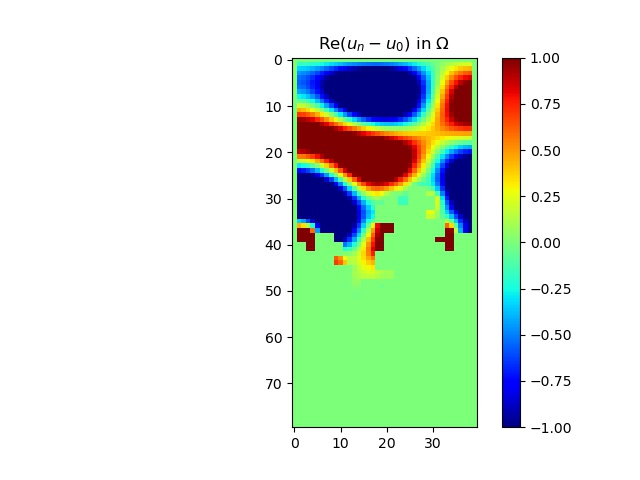
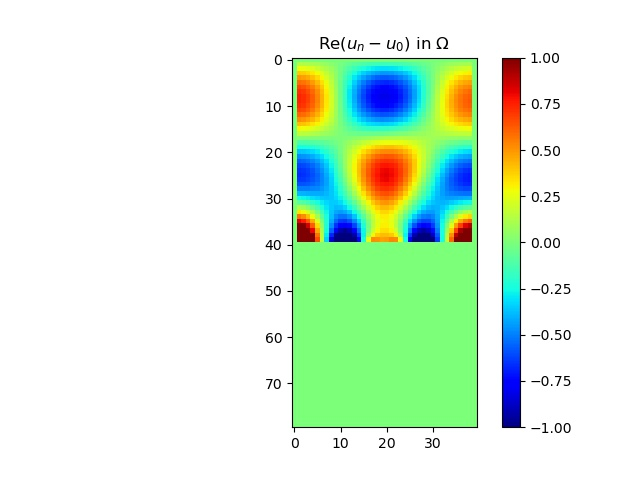
r

Changed region(s): [[0.4375, 0.125, 0.75, 0.5938]]

diff --git a/demo_control_polycopie.py b/demo_control_polycopie.py
@@ -26,8 +26,9 @@ def your_optimization_procedure(domain_omega, spacestep, wavenumber, f, f_dir, f
                                 beta_pde, alpha_pde, alpha_dir, beta_neu, beta_rob, alpha_rob,
                                 Alpha, mu, chi, V_obj, mu1, V_0):
 
-    eps1 = 1
-    eps2 = 0.03
+    eps1 = 0.01
+    eps2_0 = 10
+    eps2 = eps2_0
     eps0 = 0.00001
     """This function return the optimized density.
 
@@ -75,7 +76,10 @@ def your_optimization_procedure(domain_omega, spacestep, wavenumber, f, f_dir, f
 
         Jp = -numpy.real(Alpha*u*p)
 
+        postprocessing._plot_perso_solution(Jp, chi*0)
+
         Jp[1:, :] = Jp[:-1, :]
+        postprocessing._plot_perso_solution(Jp, chi*0)
 
         while ene >= energy[k] and mu > eps0:
             l = 0
@@ -87,6 +91,7 @@ def your_optimization_procedure(domain_omega, spacestep, wavenumber, f, f_dir, f
             # print('    b. computing projected gradient')
 
             int = integral(chi_next)
+            eps2 = eps2_0
             while abs(int-V_obj) >= eps1:
                 if int > V_obj:
                     l -= eps2
@@ -95,6 +100,7 @@ def your_optimization_procedure(domain_omega, spacestep, wavenumber, f, f_dir, f
                 chi_next = projector(chi-mu*Jp, l, domain_omega)
                 int = integral(chi_next)
                 eps2 /= 2
+                # print(int, V_obj)
 
             # print('    c. computing solution of Helmholtz problem, i.e., u')
             alpha_rob = Alpha * chi_next
@@ -105,7 +111,7 @@ def your_optimization_procedure(domain_omega, spacestep, wavenumber, f, f_dir, f
             ene = your_compute_objective_function(
                 domain_omega, u, spacestep, mu1, V_0)
 
-            postprocessing._plot_perso_solution(u, chi*0)
+            # postprocessing._plot_perso_solution(u, chi*0)
             print("Energy = ", ene)
 
             energy[k+1] = ene
@@ -180,7 +186,7 @@ if __name__ == '__main__':
     # -- set parameters of the geometry
     N = 40  # number of points along x-axis
     M = 2 * N  # number of points along y-axis
-    level = 2  # level of the fractal : limited by N
+    level = 0  # level of the fractal : limited by N
     spacestep = 1.0 / N  # mesh size
 
     # -- set parameters of the partial differential equation
